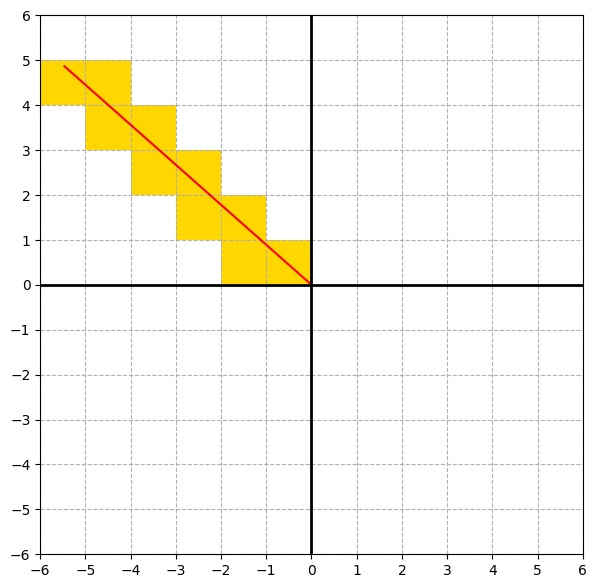
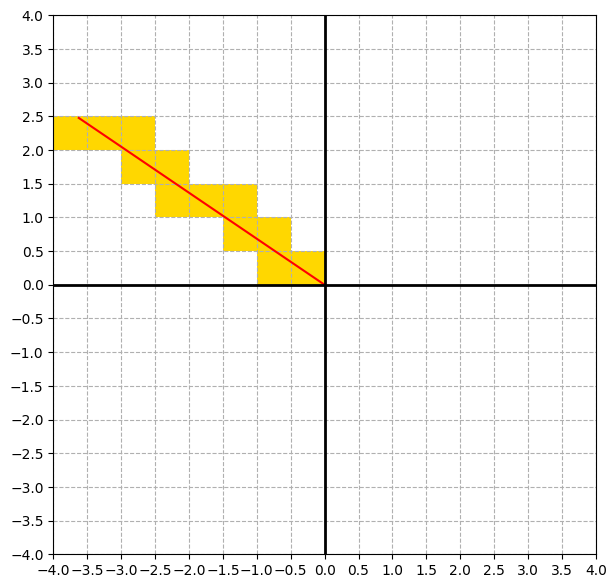
[Feature] Expand integer grid to float grid

diff --git a/Improve_Bresenham_Algorithm.py b/Improve_Bresenham_Algorithm.py
@@ -3,7 +3,7 @@ import matplotlib.pyplot as plt
 import matplotlib.patches as patches
 import matplotlib.lines as lines
 
-def get_grid_cells(point):
+def get_grid_cells(point, N):
   """
   Get grid cells that the line between a point and the origin passes through.
 
@@ -25,8 +25,8 @@ def get_grid_cells(point):
   # Get the absolute value of x and y.
   # We will consider only the first quadrant
   # and later, get the grid cells back to the original quadrant.
-  x = abs(point[0])
-  y = abs(point[1])
+  x = abs(point[0]) / N
+  y = abs(point[1]) / N
 
   # Calculate a slope of the line between p and origin.
   slope = y / (x + 1e-6)
@@ -63,7 +63,7 @@ def get_grid_cells(point):
     
   return grid_cells
 
-def draw_grid_cells(point, grid_cells):
+def draw_grid_cells(point, grid_cells, N):
   """
   Draw the line between a point and the origin and
   the grid cells that the line passes through.
@@ -87,7 +87,9 @@ def draw_grid_cells(point, grid_cells):
 
   # Draw the grid cells
   for (i, j) in grid_cells:
-    rect = patches.Rectangle((i - 0.5*(np.sign(x) + 1), j - 0.5*(np.sign(y) + 1)), 1, 1, facecolor="gold")
+    rect = patches.Rectangle((N * (i - 0.5 * (np.sign(x) + 1)),
+                              N * (j - 0.5 * (np.sign(y) + 1))),
+                             N, N, facecolor="gold")
     ax.add_patch(rect)
   
   # Draw the line
@@ -97,20 +99,20 @@ def draw_grid_cells(point, grid_cells):
   # For plot
   ax.set_xlim(-6, 6)
   ax.set_ylim(-6, 6)
-  ax.set_xticks(range(-6, 6 + 1))
-  ax.set_yticks(range(-6, 6 + 1))
+  ax.set_xticks(np.arange(-6 // N * N, 6 // N * N + 1, N))
+  ax.set_yticks(np.arange(-6 // N * N, 6 // N * N + 1, N))
   ax.grid(True, which='both', linestyle='--')
   ax.axhline(0, color='black', linewidth=2)
   ax.axvline(0, color='black', linewidth=2)
   plt.show()
 
 if __name__ == "__main__":
-  # point = np.random.uniform(-6.0, 6.0, 2).astype(np.float32)
-  point = [-4.22031, 2.32132]
-  # point = (3, 6)
+  point = np.random.uniform(-6.0, 6.0, 2).astype(np.float32)
+  # point = [-4.22031, 2.32132]
+  N = 0.3
 
-  grid_cells = get_grid_cells(point)
-  draw_grid_cells(point, grid_cells)
+  grid_cells = get_grid_cells(point, N)
+  draw_grid_cells(point, grid_cells, N)
 
   print("Point:", point)
   print("Grid Cell:", grid_cells)

diff --git a/Improve_Bresenham_Algorithm.cpp b/Improve_Bresenham_Algorithm.cpp
@@ -8,11 +8,11 @@ struct Point {
     float x, y;
 };
 
-std::vector<std::pair<int, int>> get_grid_cells(Point point) {
+std::vector<std::pair<int, int>> get_grid_cells(Point point, float N) {
     std::vector<std::pair<int, int>> grid_cells;
 
-    float x = std::abs(point.x);
-    float y = std::abs(point.y);
+    float x = std::abs(point.x) / N;
+    float y = std::abs(point.y) / N;
 
     float slope = y / (x + 1e-6);
 
@@ -39,7 +39,7 @@ std::vector<std::pair<int, int>> get_grid_cells(Point point) {
 }
 
 void draw_grid_cells(Point point, const std::vector<std::pair<int, int>>& grid_cells) {
-    std::cout << "Drawing not implemented in C++ version. Use a suitable graphics library.\n";
+    std::cout << "Drawing not implemented in C++ version. Use Python version.\n";
     std::cout << "Grid Cells:\n";
     for (const auto& cell : grid_cells) {
         std::cout << "(" << cell.first << ", " << cell.second << ")\n";
@@ -53,8 +53,11 @@ int main() {
     point.x = static_cast<float>(std::rand()) / RAND_MAX * 12 - 6;
     point.y = static_cast<float>(std::rand()) / RAND_MAX * 12 - 6;
     std::cout << "Point: (" << point.x << ", " << point.y << ")\n";
+    
+    float N = 0.3f;
+    std::cout << "N: " << N << std::endl;
 
-    std::vector<std::pair<int, int>> grid_cells = get_grid_cells(point);
+    std::vector<std::pair<int, int>> grid_cells = get_grid_cells(point, N);
     draw_grid_cells(point, grid_cells);
 
     return 0;
